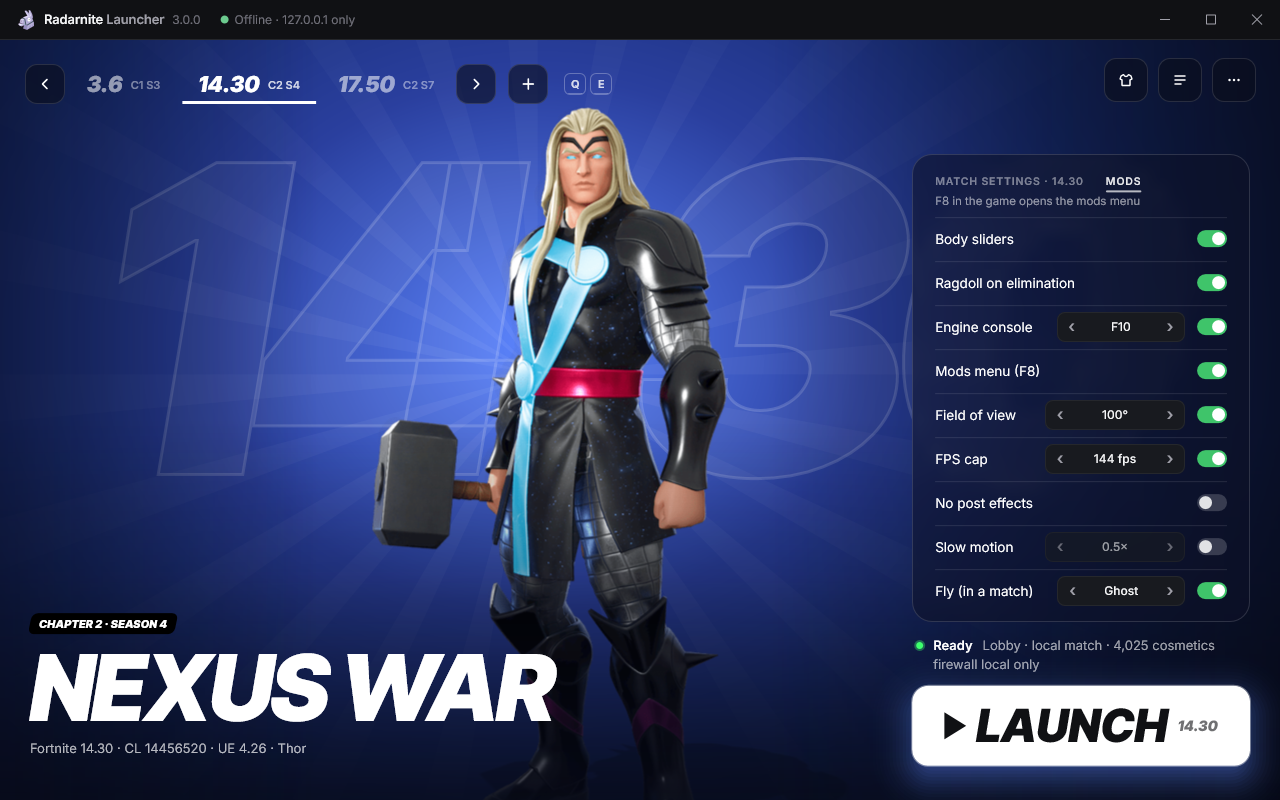
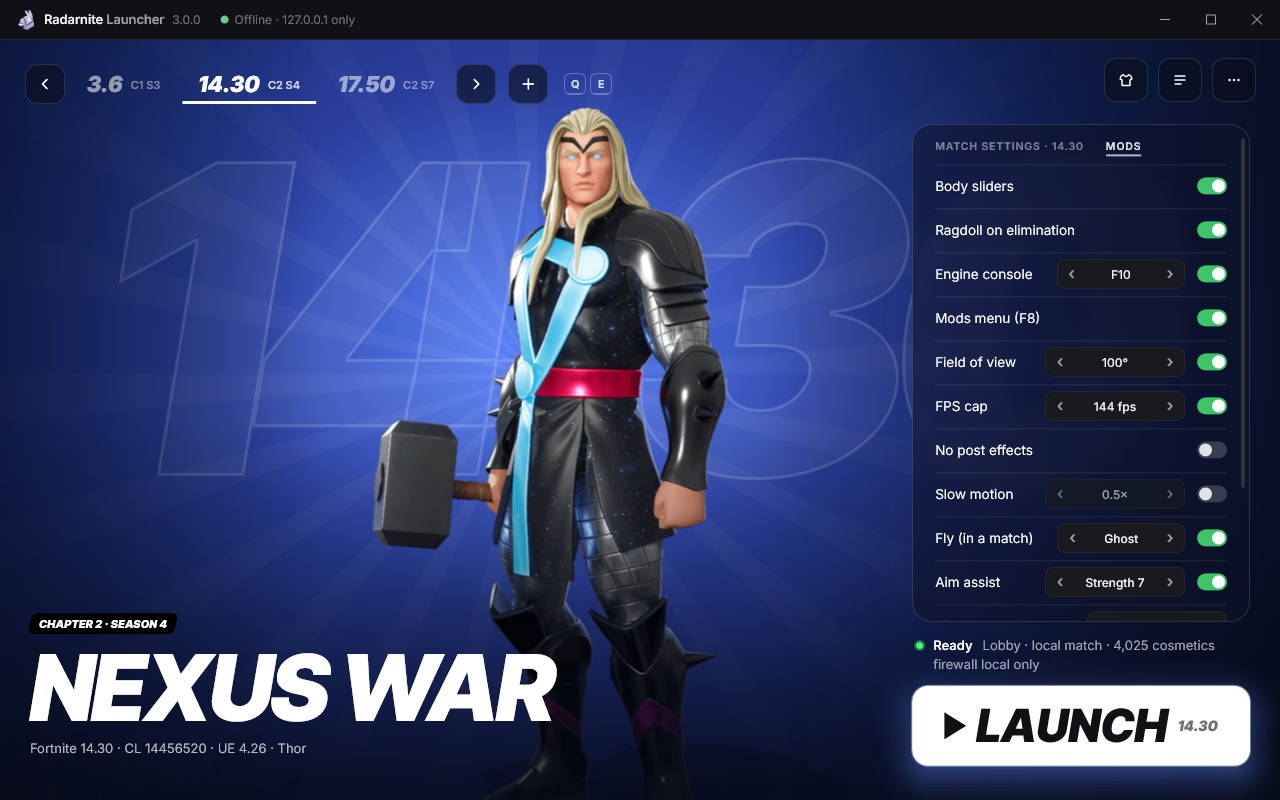
Mods tab: aim assist, aim cone, god mode, cheat keys and F9 bots; selftest captures

diff --git a/native/ui/ui.cpp b/native/ui/ui.cpp
@@ -1746,15 +1746,27 @@ float App::settingsBody(float x, float y0, float w) {
 
 // The Mods tab (builds with patches\fnmods.dll: 14.30): what the mods DLL does in the game, saved to mods.json at once
 // (pakpatch/fnconfig.c reads it; a running game takes a change within a second). A row per mod: its switch and, where it
-// has a value, ‹ value › to change it.
-constexpr int MOD_BODY = 0, MOD_RAGDOLL = 1, MOD_CONSOLE = 2, MOD_MENU = 3, MOD_FOV = 4, MOD_FPS = 5, MOD_FX = 6, MOD_SLOMO = 7, MOD_FLY = 8, MOD_N = 9;
+// has a value, ‹ value › to change it. The aim cone and the bots of F9 are values only (no switch: the aim assist and the
+// cheat keys turn them on).
+constexpr int MOD_BODY = 0, MOD_RAGDOLL = 1, MOD_CONSOLE = 2, MOD_MENU = 3, MOD_FOV = 4, MOD_FPS = 5, MOD_FX = 6, MOD_SLOMO = 7, MOD_FLY = 8,
+              MOD_AIM = 9, MOD_CONE = 10, MOD_GOD = 11, MOD_KEYS = 12, MOD_SPAWN = 13, MOD_N = 14;
 static const wchar_t* const kModLabel[MOD_N] = { L"Body sliders", L"Ragdoll on elimination", L"Engine console", L"Mods menu (F8)",
-    L"Field of view", L"FPS cap", L"No post effects", L"Slow motion", L"Fly (in a match)" };
+    L"Field of view", L"FPS cap", L"No post effects", L"Slow motion", L"Fly (in a match)", L"Aim assist", L"Aim cone",
+    L"God mode", L"Teleport and bot keys (F6 F7 F9)", L"Bots spawned with F9" };
 // the engine key names the console can take (InputSettings ConsoleKeys)
 static const wchar_t* const kModKeys[] = { L"F10", L"Tilde", L"F2", L"Insert" };
 static const int kModFps[] = { 30, 60, 120, 144, 165, 240, 0 };
 static const float kModSlomo[] = { 0.1f, 0.25f, 0.5f, 0.75f };
-static bool* modSwitch(Mods& m, int i) {
+static const int kModCone[] = { 5, 10, 15, 20, 30, 45, 60, 90, 180 };
+static const int kModSpawn[] = { 1, 2, 3, 5, 10, 20 };
+static bool* modSwitch(Mods& m, int i) {   // nullptr = a value only
+    switch (i) {
+    case MOD_CONE: case MOD_SPAWN: return nullptr;
+    case MOD_AIM: return &m.aim;
+    case MOD_GOD: return &m.god;
+    case MOD_KEYS: return &m.cheatKeys;
+    default: break;
+    }
     switch (i) {
     case MOD_BODY: return &m.body;
     case MOD_RAGDOLL: return &m.ragdoll;
@@ -1764,7 +1776,8 @@ static bool* modSwitch(Mods& m, int i) {
     case MOD_FPS: return &m.fps;
     case MOD_FX: return &m.noPostFx;
     case MOD_SLOMO: return &m.slomo;
-    default: return &m.fly;
+    case MOD_FLY: return &m.fly;
+    default: return nullptr;
     }
 }
 static std::wstring modValue(const Mods& m, int i) {   // "" = a switch only
@@ -1774,6 +1787,10 @@ static std::wstring modValue(const Mods& m, int i) {   // "" = a switch only
     case MOD_FPS: return m.fpsValue ? fmt(L"%d fps", m.fpsValue) : L"No cap";
     case MOD_SLOMO: return fmt(L"%g\u00d7", m.slomoValue);
     case MOD_FLY: return m.ghost ? L"Ghost" : L"Fly";
+    case MOD_AIM: return m.aimStrength >= 10 ? std::wstring(L"Snap") : fmt(L"Strength %d", m.aimStrength);
+    case MOD_CONE: return fmt(L"%d\u00b0", m.aimCone);
+    case MOD_SPAWN: return m.spawnTeam ? fmt(m.spawnCount == 1 ? L"%d teammate" : L"%d teammates", m.spawnCount)
+                                       : fmt(m.spawnCount == 1 ? L"%d enemy" : L"%d enemies", m.spawnCount);
     default: return L"";
     }
 }
@@ -1799,6 +1816,20 @@ static void modStep(Mods& m, int i, int d) {
         break;
     }
     case MOD_FLY: m.ghost = !m.ghost; break;
+    case MOD_AIM: m.aimStrength = std::max(1, std::min(10, m.aimStrength + d)); break;
+    case MOD_CONE: {
+        int n = (int)(sizeof kModCone / sizeof kModCone[0]), k = 4;
+        for (int j = 0; j < n; j++) if (kModCone[j] == m.aimCone) k = j;
+        m.aimCone = kModCone[std::max(0, std::min(n - 1, k + d))];
+        break;
+    }
+    case MOD_SPAWN: {   // 1 ... 20 enemies, then 1 ... 20 teammates
+        int n = (int)(sizeof kModSpawn / sizeof kModSpawn[0]), k = 2;
+        for (int j = 0; j < n; j++) if (kModSpawn[j] == m.spawnCount) k = j;
+        k = std::max(0, std::min(2 * n - 1, k + (m.spawnTeam ? n : 0) + d));
+        m.spawnTeam = k >= n; m.spawnCount = kModSpawn[k % n];
+        break;
+    }
     }
 }
 bool App::modsBuild(const Build* b) const { return b && b->major == 14 && b->minor == 30; }
@@ -1807,21 +1838,26 @@ float App::modsBody(float x, float y, float w) {
     Font rf{ Face::UI, 13.5f, 400, false }, sf{ Face::UI, 12, 500, false }, af{ Face::UI, 16, 600, false };
     for (int i = 0; i < MOD_N; i++) {
         Mods m = st_.mods;
-        bool on = *modSwitch(m, i);
+        bool* swp = modSwitch(m, i);
+        // a value-only row follows the switch that turns it on (the aim cone the aim assist, the bots the keys)
+        bool on = swp ? *swp : i == MOD_CONE ? m.aim : m.cheatKeys;
         std::wstring v = modValue(m, i);
-        float stw = v.empty() ? 0.f : std::min(140.f, w - textW(kModLabel[i], rf) - 30 - 12 - 24);
+        float sww = swp ? 30.f + 12 : 0.f;
+        float stw = v.empty() ? 0.f : std::min(140.f, w - textW(kModLabel[i], rf) - sww - 24);
         if (stw < 70) stw = 0;
         fill(rc(x, y, w, 1), C::white, .1f);
-        text(kModLabel[i], rf, x, y, w - 30 - (stw > 0 ? stw + 12 : 0) - 12, 44, C::white);
+        text(kModLabel[i], rf, x, y, w - sww - (stw > 0 ? stw + 12 : 0), 44, C::white);
         int id = ID_MS0 + i;
         float sx = x + w - 30, sy = y + (44 - 17) / 2;
-        float sv = fx(K_SWITCH | id, on ? 1.f : 0.f, rc(sx, sy, 30, 17), T2, Curve::Ui);
-        if (sv < 1) fill(rc(sx, sy, 30, 17), C::white, .18f * (1 - sv), 8.5f);
-        if (sv > 0) fill(rc(sx, sy, 30, 17), 0x3FC46A, sv, 8.5f);
-        if (!measuring_) rt_->FillEllipse(D2D1::Ellipse(D2D1::Point2F(sx + 2 + 6.5f + 13 * sv, sy + 8.5f), 6.5f, 6.5f), br(C::white, .85f + .15f * sv));
-        hit(id, rc(x - 6, y + 1, w + 12, 43), F_FOCUS | F_HAND, 6);
+        if (swp) {
+            float sv = fx(K_SWITCH | id, on ? 1.f : 0.f, rc(sx, sy, 30, 17), T2, Curve::Ui);
+            if (sv < 1) fill(rc(sx, sy, 30, 17), C::white, .18f * (1 - sv), 8.5f);
+            if (sv > 0) fill(rc(sx, sy, 30, 17), 0x3FC46A, sv, 8.5f);
+            if (!measuring_) rt_->FillEllipse(D2D1::Ellipse(D2D1::Point2F(sx + 2 + 6.5f + 13 * sv, sy + 8.5f), 6.5f, 6.5f), br(C::white, .85f + .15f * sv));
+            hit(id, rc(x - 6, y + 1, w + 12, 43), F_FOCUS | F_HAND, 6);
+        }
         if (stw > 0) {   // ‹ value ›, dimmed while the mod is off (still changeable)
-            float bx = sx - 12 - stw, by = y + 7;
+            float bx = (swp ? sx - 12 : x + w) - stw, by = y + 7;
             int dn = ID_MD0 + i, up = ID_MU0 + i;
             float a0 = alpha_;
             if (!on) alpha_ = .6f * a0;
@@ -1856,7 +1892,8 @@ void App::modsActivate(int id) {
     Mods m = st_.mods;
     if (id >= ID_MU0) modStep(m, id - ID_MU0, 1);
     else if (id >= ID_MD0) modStep(m, id - ID_MD0, -1);
-    else { bool* sw = modSwitch(m, id - ID_MS0); *sw = !*sw; }
+    else if (bool* sw = modSwitch(m, id - ID_MS0)) *sw = !*sw;
+    else return;
     setMods(m);
 }
 
@@ -2218,6 +2255,11 @@ std::wstring App::tooltip(int id) const {
     case ID_MS0 + MOD_FX: return L"Motion blur, depth of field, bloom, lens flares, color fringe and film grain off";
     case ID_MS0 + MOD_SLOMO: case ID_MD0 + MOD_SLOMO: case ID_MU0 + MOD_SLOMO: return L"The whole game slower (in a match the match server does it)";
     case ID_MS0 + MOD_FLY: case ID_MD0 + MOD_FLY: case ID_MU0 + MOD_FLY: return L"In a match: Space up, Ctrl down; Ghost also flies through walls";
+    case ID_MS0 + MOD_AIM: case ID_MD0 + MOD_AIM: case ID_MU0 + MOD_AIM: return L"In a match, while the right mouse button is held: the camera turns to the nearest visible enemy's head";
+    case ID_MD0 + MOD_CONE: case ID_MU0 + MOD_CONE: return L"The aim assist takes enemies at most this far off the crosshair";
+    case ID_MS0 + MOD_GOD: return L"In a match: you take no damage";
+    case ID_MS0 + MOD_KEYS: return L"In a match: F6 teleports to the crosshair, F7 to your map pin, F9 spawns bots around you (also in the F8 menu)";
+    case ID_MD0 + MOD_SPAWN: case ID_MU0 + MOD_SPAWN: return L"How many bots F9 and the F8 menu spawn, and on which side";
     case ID_PROFILE: return L"Your save: level, battle pass, V-bucks, items and locker. A new name starts a new one";
     case ID_BUILDMENU: return L"Build actions";
     case ID_ACT: return L"Activity (Ctrl+L)";

diff --git a/native/core/mods.cpp b/native/core/mods.cpp
@@ -63,6 +63,15 @@ Mods load() {
         if (num(root, "slowMotion", &d)) m.slomoValue = clampf((float)d, 0.1f, 1.0f);
         on(root, "fly", &m.fly);
         if (str(root, "fly", &s)) m.ghost = s == L"ghost";
+        on(root, "aimAssist", &m.aim);
+        if (num(root, "aimAssist", &d)) m.aimStrength = clampi((int)d, 1, 10);
+        if (num(root, "aimCone", &d)) m.aimCone = clampi((int)d, 5, 180);
+        on(root, "god", &m.god);
+        on(root, "cheatKeys", &m.cheatKeys);
+        if (num(root, "spawnBots", &d)) m.spawnCount = clampi((int)d, 1, 20);
+        yyjson_val* sb = mod(root, "spawnBots");
+        yyjson_val* side = sb ? yyjson_obj_get(sb, "side") : nullptr;
+        if (yyjson_is_str(side)) m.spawnTeam = json::wstr(side) == L"team";
     }
     if (doc) yyjson_doc_free(doc);
     return m;
@@ -83,7 +92,15 @@ bool save(const Mods& m) {
     t += std::string("  \"noPostEffects\": {\"on\": ") + b(m.noPostFx) + "},\r\n";
     snprintf(num, sizeof num, "%.2f", clampf(m.slomoValue, 0.1f, 1.0f));
     t += std::string("  \"slowMotion\": {\"on\": ") + b(m.slomo) + ", \"value\": " + num + "},\r\n";
-    t += std::string("  \"fly\": {\"on\": ") + b(m.fly) + ", \"value\": \"" + (m.ghost ? "ghost" : "fly") + "\"}\r\n}\r\n";
+    t += std::string("  \"fly\": {\"on\": ") + b(m.fly) + ", \"value\": \"" + (m.ghost ? "ghost" : "fly") + "\"},\r\n";
+    snprintf(num, sizeof num, "%d", clampi(m.aimStrength, 1, 10));
+    t += std::string("  \"aimAssist\": {\"on\": ") + b(m.aim) + ", \"value\": " + num + "},\r\n";
+    snprintf(num, sizeof num, "%d", clampi(m.aimCone, 5, 180));
+    t += std::string("  \"aimCone\": {\"value\": ") + num + "},\r\n";
+    t += std::string("  \"god\": {\"on\": ") + b(m.god) + "},\r\n";
+    t += std::string("  \"cheatKeys\": {\"on\": ") + b(m.cheatKeys) + "},\r\n";
+    snprintf(num, sizeof num, "%d", clampi(m.spawnCount, 1, 20));
+    t += std::string("  \"spawnBots\": {\"value\": ") + num + ", \"side\": \"" + (m.spawnTeam ? "team" : "enemy") + "\"}\r\n}\r\n";
     // the game reads the file whenever it changes: it must never see half of it
     std::wstring file = path(), tmp = file + L".tmp";
     if (!writeFile(tmp, t)) return false;

diff --git a/native/ui/mock_api.cpp b/native/ui/mock_api.cpp
@@ -149,6 +149,8 @@ const MockScenario kScenarios[] = {
     // the Mods tab of the settings (14.30): some mods on with values, then at the minimum size (its rows scroll)
     { L"55-mods-tab-1280x800", 1280, 800, 1.0f, false },
     { L"56-mods-tab-760x520-125", 760, 520, 1.25f, false },
+    // the Mods tab tall enough for every row: the match cheats (aim assist, cone, god mode, keys, the bots of F9)
+    { L"57-mods-tab-cheats-1280x1200", 1280, 1200, 1.0f, false },
 };
 
 // ---- the cosmetics (tests/ui-port-catalog.json, padded to the size of the real list with older made-up items)
@@ -293,9 +295,10 @@ public:
             l.text = L"Warning: the match server did not get ready (see offline\\userdir-server\\Saved\\Logs). The lobby still works."; l.level = Level::Warn; post.push_back(l);
         }
         else if (_wtoi(id.c_str()) >= 48 && _wtoi(id.c_str()) <= 53) { st.builds = withServer(many()); st.config.mode = L"bots"; st.config.bots = 35; st.selected = L"17.50"; post = logs(40); }   // the match settings
-        else if (_wtoi(id.c_str()) == 55 || _wtoi(id.c_str()) == 56) {
+        else if (_wtoi(id.c_str()) >= 55 && _wtoi(id.c_str()) <= 57) {
             st.builds = lobby(); st.selected = L"14.30"; st.config.displayName = L"GoldenTiger86";
             st.mods.fov = true; st.mods.fovValue = 100; st.mods.fps = true; st.mods.fpsValue = 144; st.mods.fly = true; st.mods.ghost = true;
+            st.mods.aim = true; st.mods.aimStrength = 7; st.mods.aimCone = 45; st.mods.cheatKeys = true; st.mods.spawnCount = 5;
             lock(); prefs_[L"settingsTab"] = L"mods"; unlock();
         }
         else if (id.rfind(L"42-", 0) == 0) { st.builds = lobby(); st.selected = L"14.30"; st.config.displayName = L"GoldenTiger86"; }

diff --git a/native/ui/api.h b/native/ui/api.h
@@ -60,6 +60,12 @@ struct Mods {
     bool noPostFx = false;
     bool slomo = false; float slomoValue = 0.5f;   // 0.1-1
     bool fly = false; bool ghost = false;          // ghost = fly through walls
+    // the match cheats (pakpatch/fncheats.c)
+    bool aim = false; int aimStrength = 5;         // hold the right mouse button; 1-10, 10 snaps
+    int aimCone = 30;                              // 5-180 degrees off the crosshair
+    bool god = false;
+    bool cheatKeys = false;                        // F6 teleport to the crosshair, F7 to the map pin, F9 spawn bots
+    int spawnCount = 3; bool spawnTeam = false;    // what F9 spawns: 1-20 bots, enemies or teammates
 };
 
 // A partial config change made in the window (only the set fields are written by the core).
